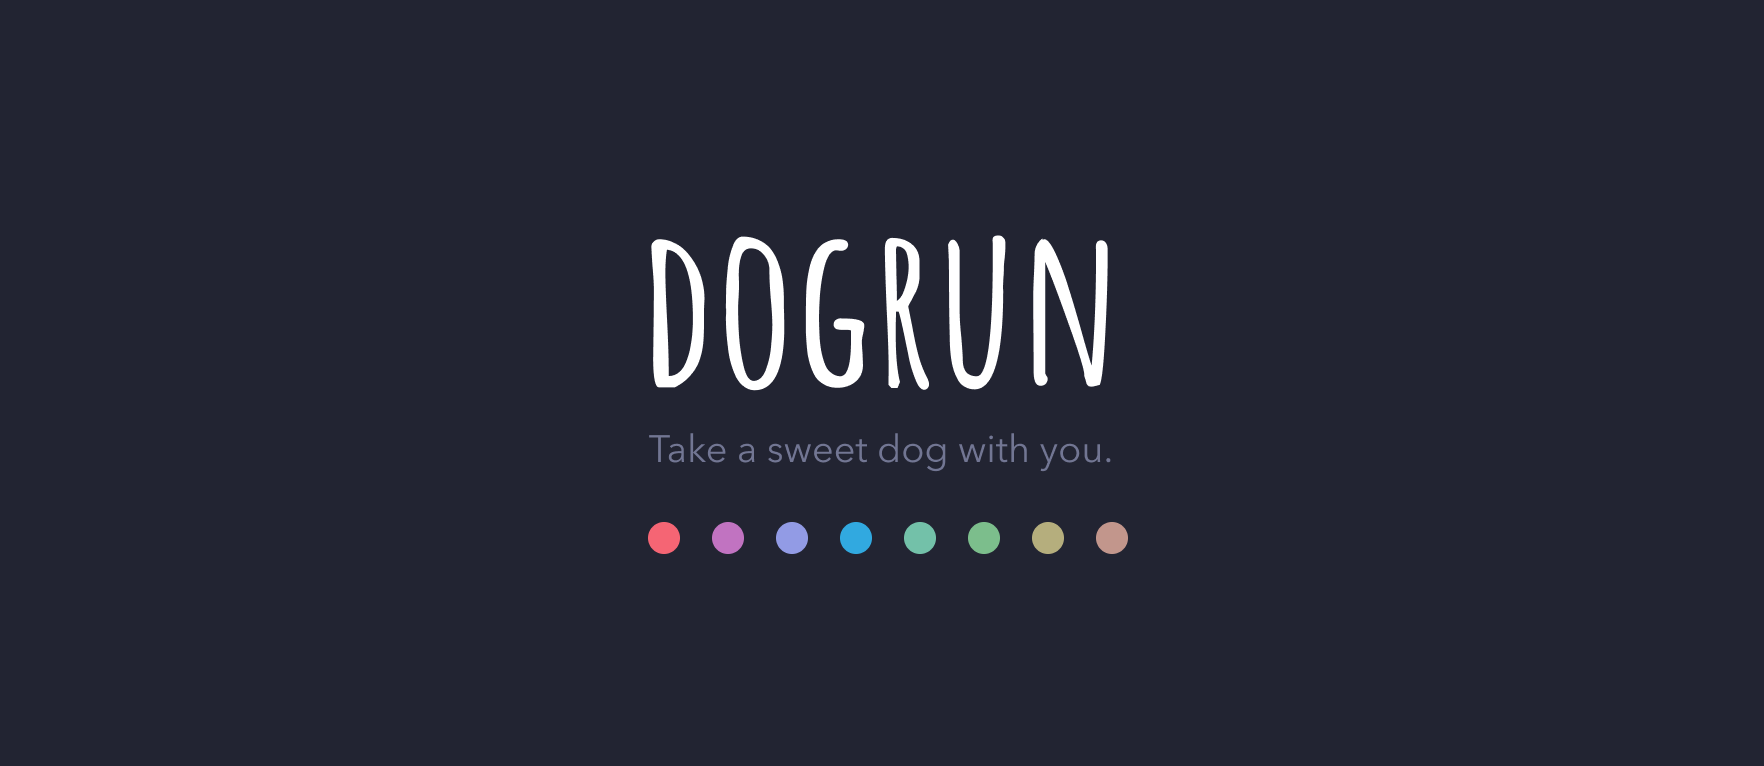
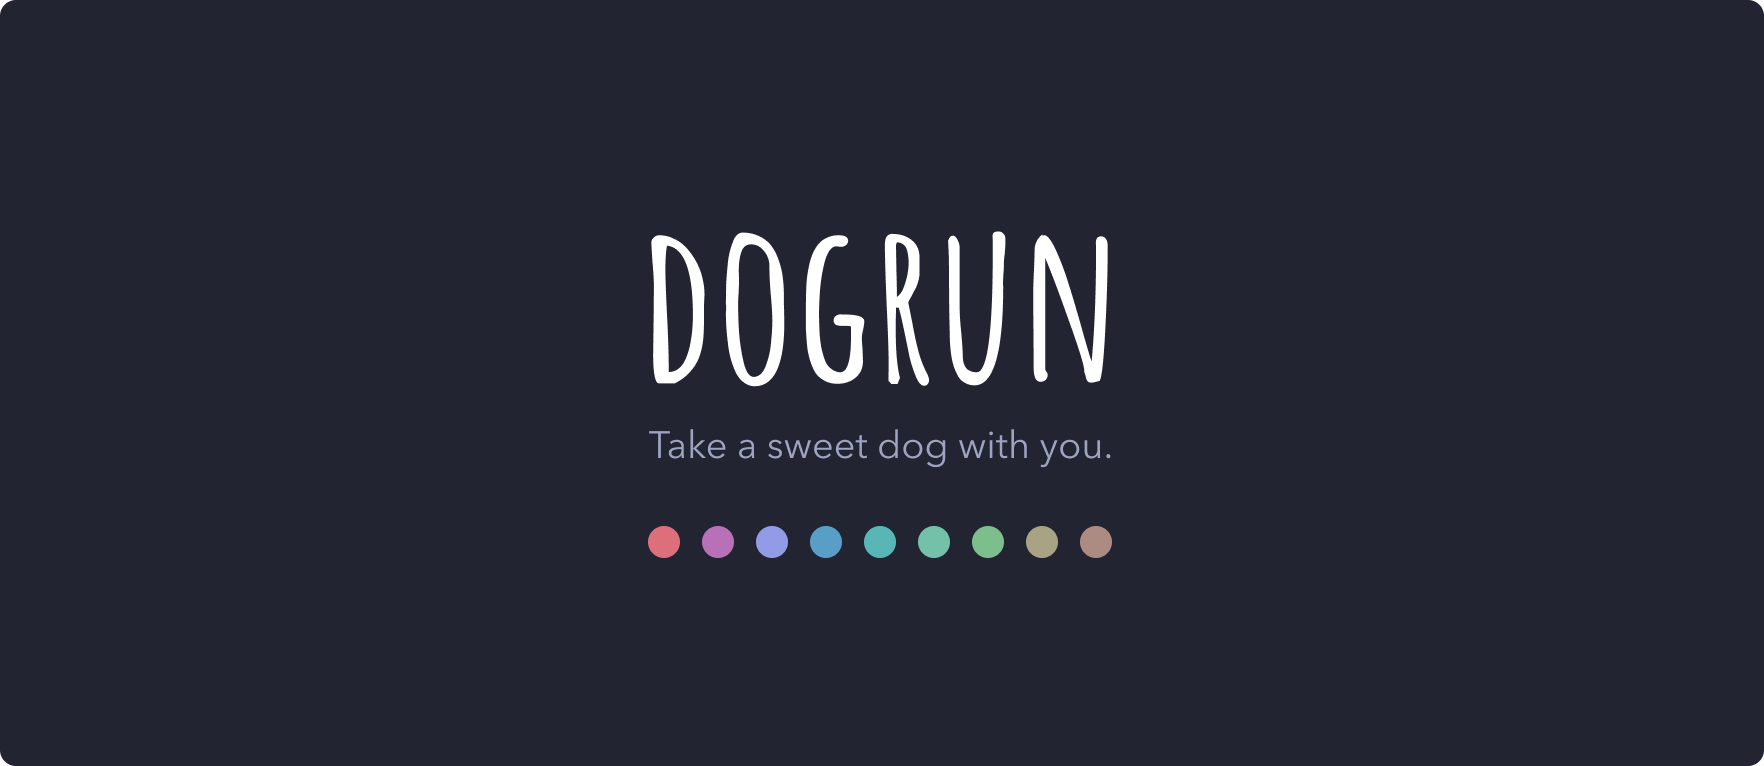
update: Update that a slightly lowers the contrast of the base palette.

diff --git a/generator/src/highlight.rs b/generator/src/highlight.rs
@@ -124,25 +124,25 @@ pub fn get_palette() -> Palette {
     }
 
     // palettes
-    def!(red, "#f56574");
+    def!(red, "#dc6f7a");
     def!(darkred, extends!(red, 0.0, 0.0, -0.2));
-    def!(pink, "#c173c1");
+    def!(pink, "#b871b8");
     def!(darkpink, extends!(pink, 0.0, -0.05, -0.35));
     def!(purple, "#929be5");
     def!(darkpurple, extends!(purple, 0.0, 0.05, -0.15));
-    def!(blue, "#31a9e0");
+    def!(blue, "#589ec6");
     def!(darkblue, extends!(blue, 0.0, 0.0, -0.2));
     def!(darkestblue, extends!(blue, 0.0, 0.05, -0.48));
-    def!(cyan, "#2aacbd");
+    def!(cyan, "#59b6b6");
     def!(darkcyan, extends!(cyan, 0.0, 0.0, -0.2));
     def!(teal, "#73c1a9");
     def!(darkteal, extends!(teal, 0.0, 0.0, -0.2));
     def!(darkestteal, extends!(teal, 0.0, 0.05, -0.48));
     def!(green, "#7cbe8c");
     def!(darkgreen, extends!(green, 0.0, -0.05, -0.4));
-    def!(yellow, "#b5ae7d");
+    def!(yellow, "#a8a384");
     def!(darkyellow, extends!(yellow, 0.0, -0.15, -0.5));
-    def!(orange, "#c2968c");
+    def!(orange, "#ac8b83");
     def!(darkorange, extends!(orange, 0.0, -0.05, -0.2));
 
     // neutral
